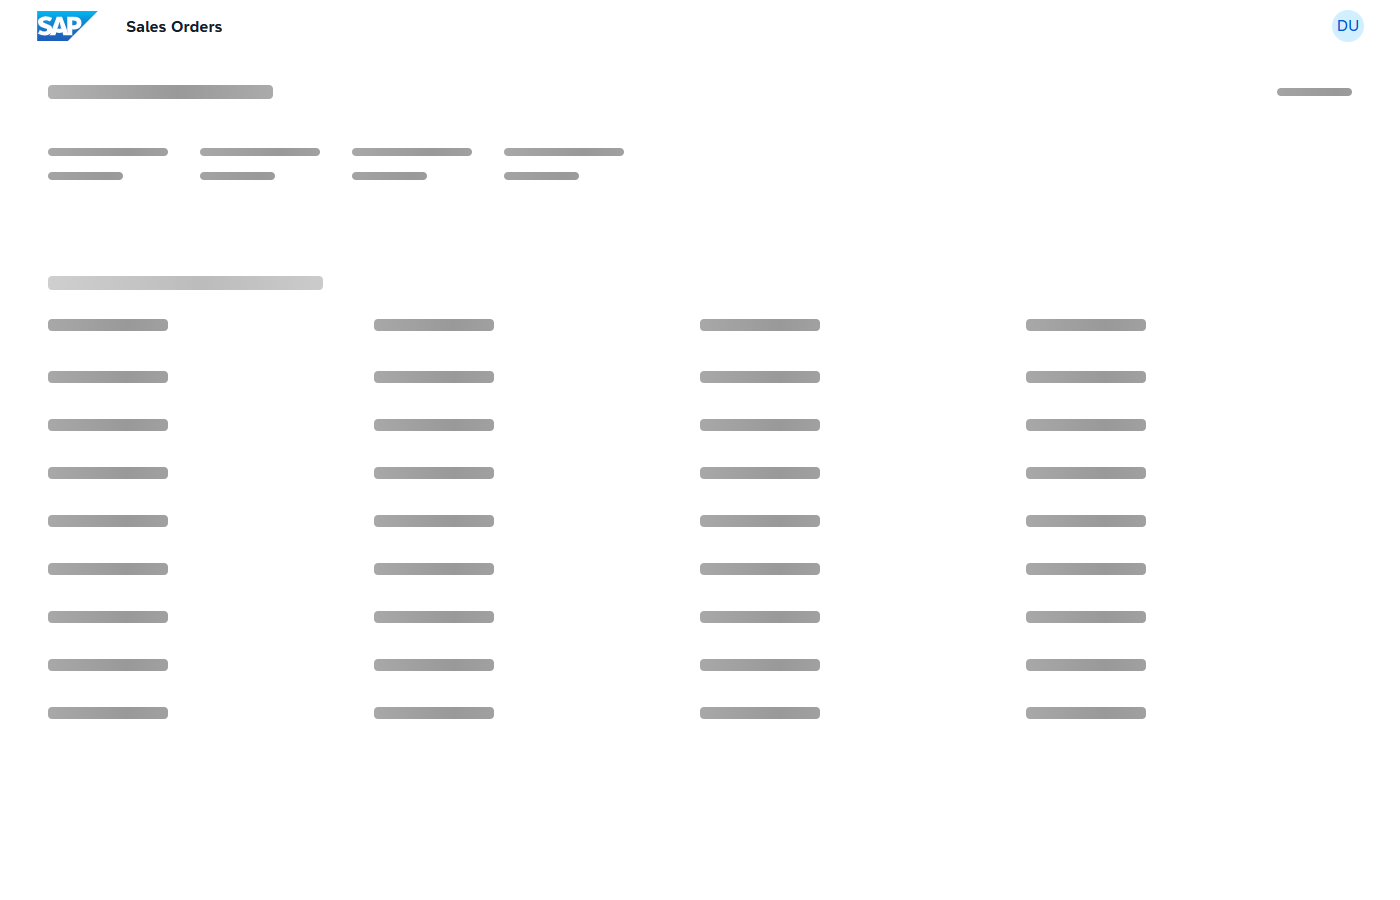
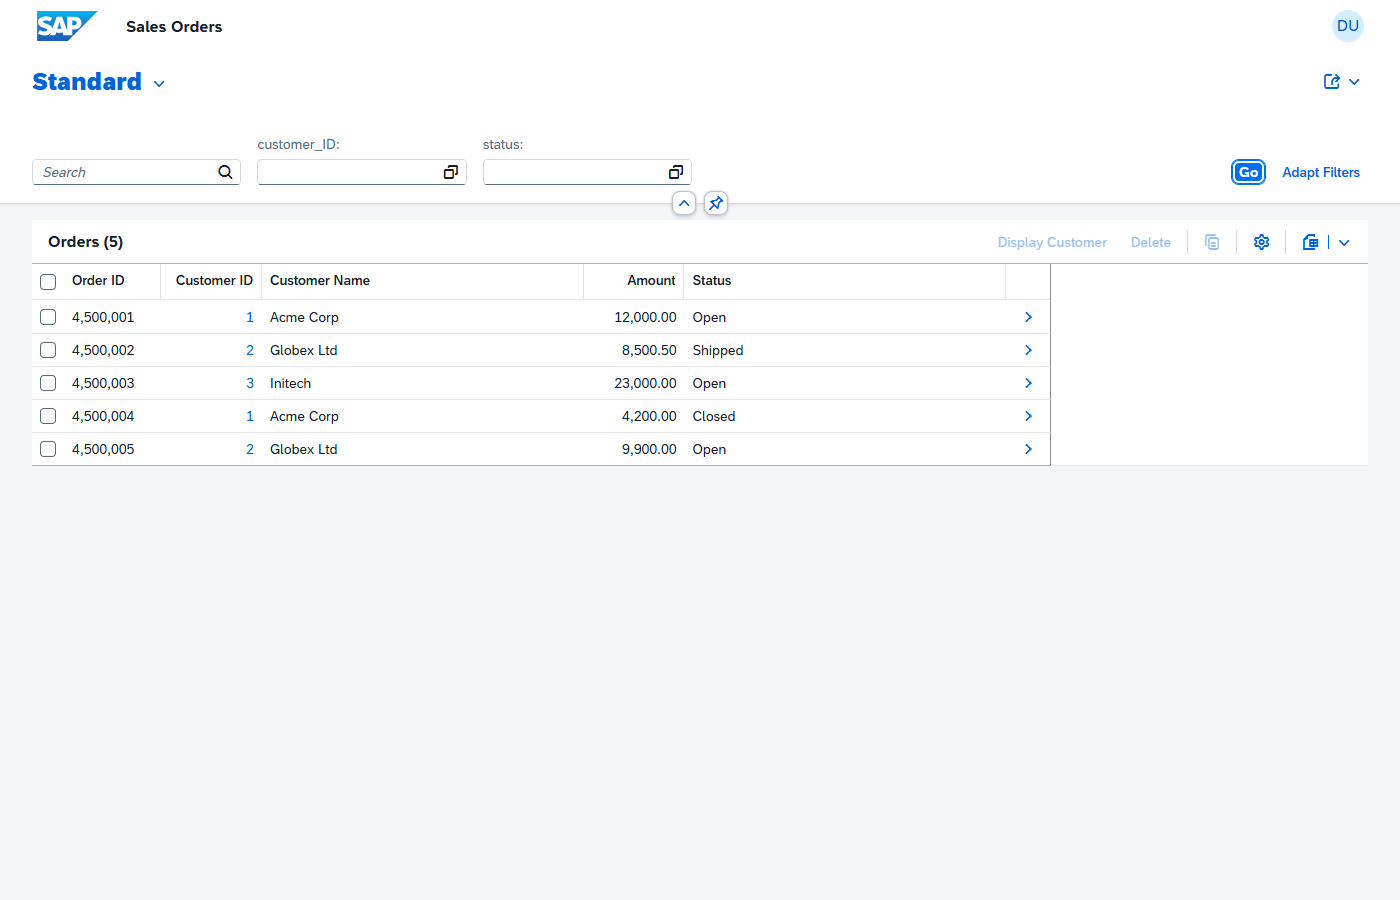
feat: add Display Customer toolbar action and row navigation for enhanced UX

diff --git a/app/orders/webapp/ext/controller/CustomActions.js b/app/orders/webapp/ext/controller/CustomActions.js
@@ -1,0 +1,43 @@
+sap.ui.define([
+    "sap/m/MessageToast"
+], function (MessageToast) {
+    "use strict";
+
+    return {
+        /**
+         * Triggered when user selects an order and clicks "Display Customer"
+         * Uses SAP Fiori Launchpad Navigation service to cross-navigate to App B
+         */
+        displayCustomer: function (oBindingContext, aSelectedContexts) {
+            const context = (aSelectedContexts && aSelectedContexts.length > 0)
+                ? aSelectedContexts[0]
+                : oBindingContext;
+
+            if (!context) {
+                MessageToast.show("Please select an order first.");
+                return;
+            }
+
+            const customerId = context.getProperty("customer_ID");
+            if (!customerId) {
+                MessageToast.show("No customer associated with this order.");
+                return;
+            }
+
+            // Cross-app navigation via FLP Shell Navigation Service
+            sap.ushell.Container.getServiceAsync("Navigation").then(function (oNavService) {
+                oNavService.navigate({
+                    target: {
+                        semanticObject: "Customer",
+                        action: "display"
+                    },
+                    params: {
+                        ID: String(customerId)
+                    }
+                });
+            }).catch(function (err) {
+                console.error("Navigation failed:", err);
+            });
+        }
+    };
+});
